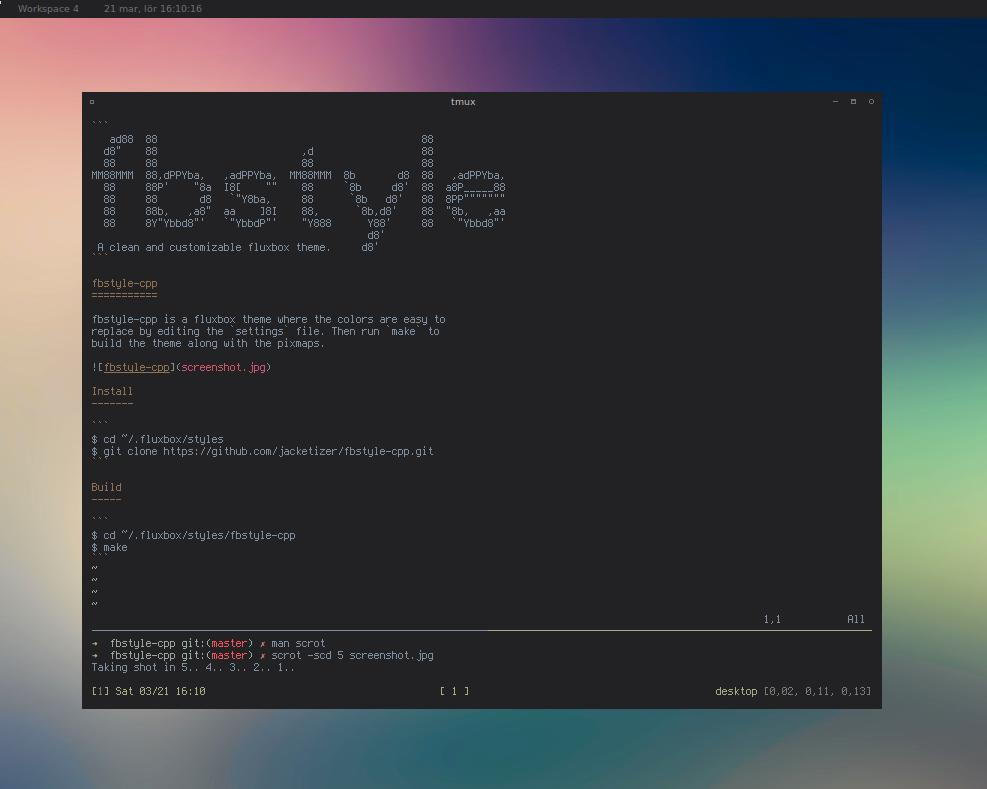
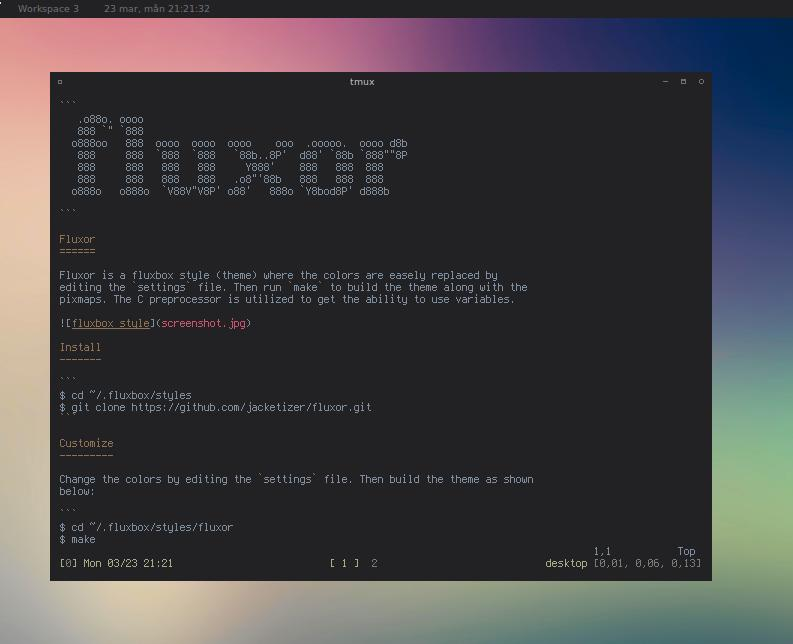
Name change

Changed region(s): [[0.0, 0.0, 1.0, 1.0]]

diff --git a/README.md b/README.md
@@ -1,38 +1,40 @@
 ```
-   ad88  88                                            88
-  d8"    88                        ,d                  88
-  88     88                        88                  88
-MM88MMM  88,dPPYba,   ,adPPYba,  MM88MMM  8b       d8  88   ,adPPYba,
-  88     88P'    "8a  I8[    ""    88     `8b     d8'  88  a8P_____88
-  88     88       d8   `"Y8ba,     88      `8b   d8'   88  8PP"""""""
-  88     88b,   ,a8"  aa    ]8I    88,      `8b,d8'    88  "8b,   ,aa
-  88     8Y"Ybbd8"'   `"YbbdP"'    "Y888      Y88'     88   `"Ybbd8"'
-                                              d8'
- A clean and customizable fluxbox theme.     d8'
+   .o88o. oooo                                             
+   888 `" `888                                             
+  o888oo   888  oooo  oooo  oooo    ooo  .ooooo.  oooo d8b 
+   888     888  `888  `888   `88b..8P'  d88' `88b `888""8P 
+   888     888   888   888     Y888'    888   888  888     
+   888     888   888   888   .o8"'88b   888   888  888     
+  o888o   o888o  `V88V"V8P' o88'   888o `Y8bod8P' d888b    
+
 ```
 
-fbstyle-cpp
-===========
+Fluxor
+======
 
-fbstyle-cpp is a fluxbox style (theme) where the colors are easy to
-replace by editing the `settings` file. Then run `make` to
-build the theme along with the pixmaps. The C preprocessor is
-utilized to get the ability to use variables.
+Fluxor is a fluxbox style (theme) where the colors are easely replaced by
+editing the `settings` file. Then run `make` to build the theme along with the
+pixmaps. The C preprocessor is utilized to get the ability to use variables.
 
-![fbstyle-cpp](screenshot.jpg)
+![fluxbox style](screenshot.jpg)
 
 Install
 -------
 
 ```
 $ cd ~/.fluxbox/styles
-$ git clone https://github.com/jacketizer/fbstyle-cpp.git
+$ git clone https://github.com/jacketizer/fluxor.git
 ```
 
-Build
------
+Customize
+---------
+
+Change the colors by editing the `settings` file. Then build the theme as shown
+below:
 
 ```
-$ cd ~/.fluxbox/styles/fbstyle-cpp
+$ cd ~/.fluxbox/styles/fluxor
 $ make
 ```
+
+Restart fluxbox to reload the theme.
